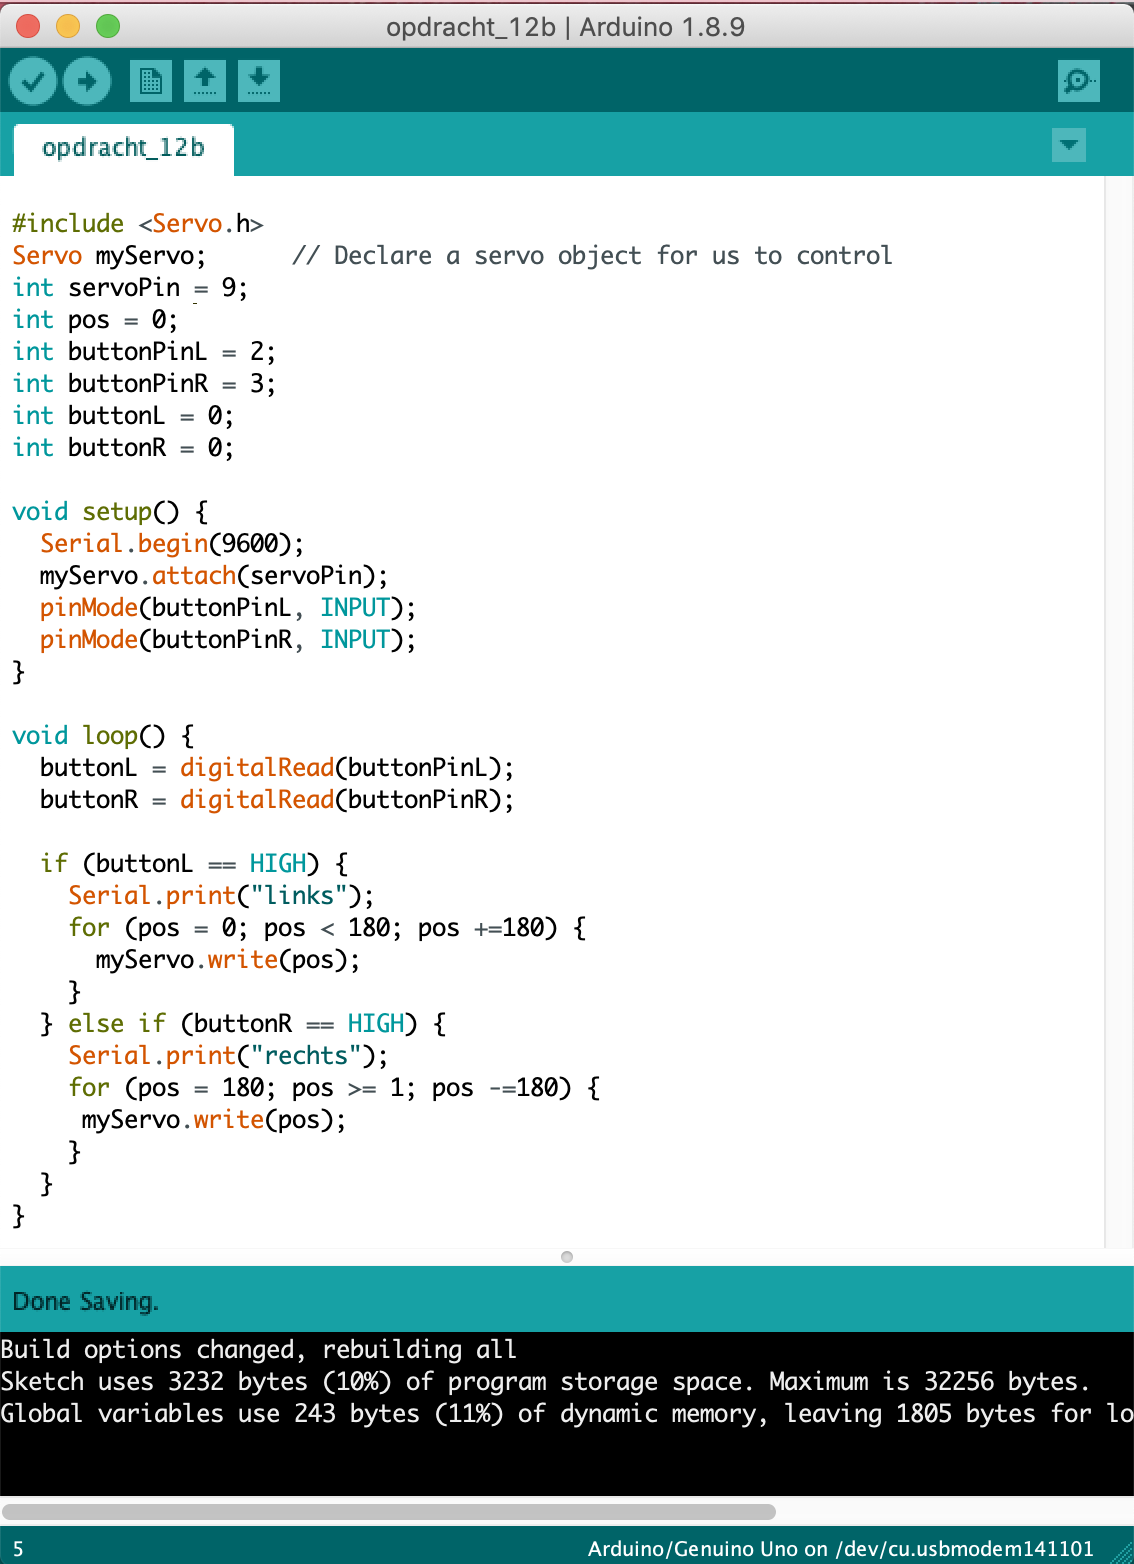
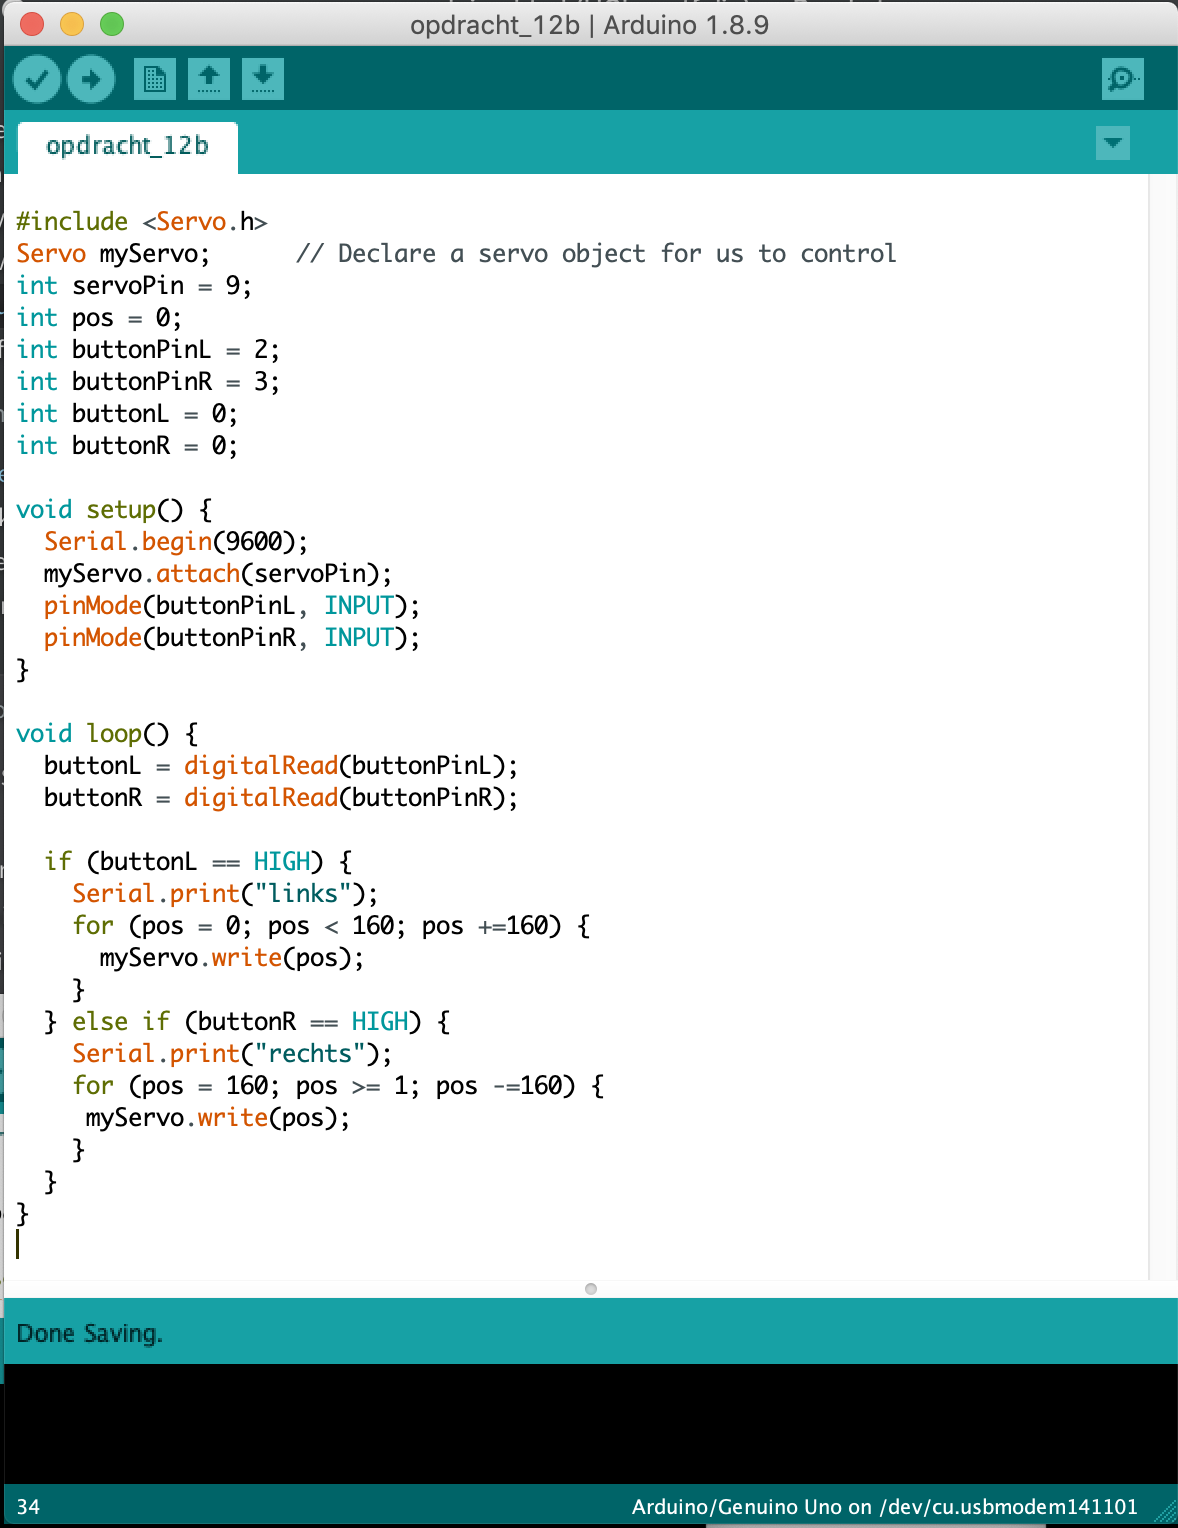
update

diff --git a/arduino.html b/arduino.html
@@ -56,8 +56,12 @@
                     <video muted controls loop preload autoplay>
                       <source src="img/arduino_3c.mp4" type="video/mp4">
                     </video>
+                    <p>De positie van de draadjes</p>
+                    <figure>
+                        <img src="img/arduino_3c_bb.png" alt="">
+                    </figure>
                     <p>
-                        Het was hier de opdracht om ervoor te zorgen dat het groene led lampje twee keer sneller knippert dan het gele led lampje. 
+                    Het was hier de opdracht om ervoor te zorgen dat het groene led lampje twee keer sneller knippert dan het gele led lampje. Ik moest de verbinddraadjes in de juiste pins (rondjes) plaatsen zodat de lampjes aan konden gaan. Met de code heb ik toen aangegeven dat het gele lampje eerst helemaal aan moest terwijl het groene lampje uit was. Na een vertraging moest het groene lampje uit en aan gaan waarna het gele lampje uit ging en het groene lampje weer aan en zo voorts. Deze code staat in een loop wat betekend dat het steeds opnieuw zal gaan.
                     </p>
                     <h2>Opdracht 4c</h2>
                     <figure>
@@ -66,7 +70,11 @@
                     <video muted controls loop preload autoplay>
                       <source src="img/arduino_4c.mp4" type="video/mp4">
                     </video>
-                    <p>
+                    <figure>
+                        <img src="img/arduino_4c_bb.png" alt="">
+                    </figure>
+                    <p>De opdracht was het controleren van de helderheid van de led lampjes. Niet alle pins zijn hiervoor geschikt. Het moeten pins zijn die geschikt zijn voor Pulse Width Modulation (PWM) op deze manier kan het led lampje gedimd worden. 
+                    De positie van de draadjes en de led lampjes zijn op het Arduino board en Breadboard niet veel veranderd, behalve dat de draadjes nu in een andere pin zitten. Het was de bedoeling dat een led lampje langzaam vervaagd terwijl de andere langzaam helderder wordt. In de code kan je in de loop zien dat het groene led lampje "bright" wordt, terwijl het gele led lampje minder "bright" wordt. Omdat dit in een loop zit, wordt het herhaald.
                     </p>
                     <h2>Opdracht 6c</h2>
                     <figure>
@@ -75,7 +83,11 @@
                     <video muted controls loop preload autoplay>
                       <source src="img/arduino_6c.mp4" type="video/mp4">
                     </video>
+                    <figure>
+                        <img src="img/arduino_6c_bb.png" alt="">
+                    </figure>
                     <p>
+                    Het was hier de opdracht dat een led lampje vervaagd terwijl het andere helderder wordt door middel van het draaien van de potentiometer. Een potentiometer kan gedraaid worden en hier kan code aan gehangen worden zodat het draaien van de potentiometer iets veranderd. In dit geval veranderd het draaien aan de potentiometer dat het ene led lampje vervaagd en dat het andere helderder wordt.
                     </p>
                     <h2>Opdracht 7</h2>
                     <figure>
@@ -84,7 +96,11 @@
                     <video muted controls loop preload autoplay>
                       <source src="img/arduino_7.mp4" type="video/mp4">
                     </video>
+                    <figure>
+                        <img src="img/arduino_7_bb.png" alt="">
+                    </figure>
                     <p>
+                    In de vorige opdracht heb ik ervoor gezorgd dat de de led lampjes door de potentiometer werden gecontroleerd. In deze opdracht is het de bedoeling dat de led lampjes door een andere sensor worden gecontroleerd. Nu moeten de led lampjes door een LDR (light dependent resistor). Deze sensor meet de hoeveelheid licht, het is een soortgelijke sensor als de sensor die gebruikt wordt om lantaarnpalen aan te laten gaan.
                     </p>
                     <h2>Opdracht 8</h2>
                     <figure>
@@ -94,7 +110,10 @@
                     <video controls preload>
                       <source src="img/arduino_8.mp4" type="video/mp4">
                     </video>
-                    <p>
+                    <figure>
+                        <img src="img/arduino_8_bb.png" alt="">
+                    </figure>
+                    <p>Bij deze opdracht was het de bedoeling om uit te leggen hoe de formule van de voltage divider in de praktijk werkt. Een voltage divider is een opstelling van het Arduino Board (een circuit) dat een lage spanning veranderd in een lagere spanning door gebruik van twee resistoren en een input kan er dan een output gecreeërd worden dat een fractie van de input is. De eerste vraag van de opdracht was wat er zou gebeuren als beide voltage dividers LDR's waren. Het antwoord daarop is dat de ene ldr er voor zorgd dat de waarden lager worden als er minder licht binnenkomt. Bij de andere ldr wordt de spanning hoger als er minder licht binnenkomt. Als beiden bedekt worden en dus geen licht opvangen, word de spanning gemiddeld en als ze beiden licht ontvangen ook. 
                     </p>
                     <h2>Opdracht 9b</h2>
                     <video muted controls loop preload autoplay>
@@ -103,6 +122,7 @@
                     <video muted controls loop preload autoplay>
                       <source src="img/arduino_9b_.mp4" type="video/mp4">
                     </video>
+                    <p>Voor deze opdracht heb ik hetzelfde circuit als opdracht 6 gebruikt. Het was de bedoeling dat Arduino en Processing samen zouden werken zodat er een input device ontstaat dat invloed uitoefend op het virtuele programma van Processing. Ik heb een driehoek gemaakt dat verticaal flipt als een gebruiker aan de potentiometer draait.</p>
                     <p>
                     </p>
                     <h2>Opdracht 10f</h2>
@@ -112,7 +132,10 @@
                     <video muted controls loop preload autoplay>
                       <source src="img/arduino_10f.mp4" type="video/mp4">
                     </video>
-                    <p>
+                    <figure>
+                        <img src="img/arduino_10f_bb.png" alt="">
+                    </figure>
+                    <p>Bij deze opdracht moest ik twee knoppen (buttons) toevoegen zodat het led lampje aangaat als er een van de twee knoppen wordt ingedrukt. Als beide knoppen worden ingedrukt, moet het led lampje niet aan gaan. Hiervoor heb ik een if else function gecreeërd. Deze functie geeft letterlijk aan als (voorwaarde) dan gebeurd er (dit). Dus als de knop links of de knop rechts wordt ingedrukt dan moet het lampje aan, maar als de knoppen samen worden ingedrukt dan moet het lampje niet aan.
                     </p>
                     <h2>Opdracht 11b</h2>
                     <figure>
@@ -121,16 +144,23 @@
                     <video muted controls loop preload autoplay>
                       <source src="img/arduino_11b.mp4" type="video/mp4">
                     </video>
-                    <p>
+                    <figure>
+                        <img src="img/arduino_11b_bb.png" alt="">
+                    </figure>
+                    <p>Servomoters (servo) zijn motoren die op een precieze positie gedraaid kunnen worden. Het was de bedoeling om de code zo aan te passen dat de servo op een interessante en ritmische manier zal bewegen. Pos is de positie van de servo. Ik heb positie van de servo aangepast en waarden tussen 0 en 150 ingevuld.
                     </p>
                     <h2>Opdracht 12b</h2>
                     <figure>
                         <img src="img/arduino_12b.png" alt="">
                     </figure>
+                    <figure>
+                        <img src="img/arduino_12b_bb.png" alt="">
+                    </figure>
                     <video muted controls loop preload autoplay>
                       <source src="img/arduino_12b.mp4" type="video/mp4">
                     </video>
                     <p>
+                    Bij deze opdracht was het de bedoeling om twee knoppen toe te voegen. Deze knoppen moeten de servo controleren. De ene knop moet ervoor zorgen dat de servo met de klok mee beweegt en de andere moet ervoor zorgen dat de servo tegen de klok in beweegt. Serial.print("links) geeft aan wat de linkerknop doet en Serial.print("rechts") geeft aan wat de rechterknop doet. Zoals eerder vermeeld laat "pos" zien wat de positie van de servo is.   
                     </p>
                     <h2>Opdracht 13b</h2>
                     <video muted controls loop preload autoplay>
@@ -140,7 +170,15 @@
                     <video controls preload>
                       <source src="img/arduino_13b_sound.mp4" type="video/mp4">
                     </video>
+                    <figure>
+                        <img src="img/arduino_13b_bb.png" alt="">
+                    </figure>
+                    <figure>
+                        <img src="img/arduino_13b_sounddiagram.png" alt="">
+                        <figcaption>Geluidsdiagram</figcaption>
+                    </figure>
                     <p>
+                    In deze opdracht moest ik een creatieve melodie creeëren met behulp van frequenties. Deze frequenties stonden in het geluidsdiagram. Ik heb de melodie van Twinkle Twinkle Little Star opgezocht en de juiste frequenties in het geluidsdiagram opgezocht. Daarna heb ik per regel de juiste frequentie erbij gezet met daarachter hoelang de noot wordt afgespeeld. Tussen de noten van een zin zit een vertraging van 400ms en tussen twee zinnen zit een vertraging van 800 ms om aan te geven dat het een nieuwe zin is. Ook omdat er normaal in het afspelen van liedjes breaks zitten tussen verschillende onderdelen van het nummer.
                     </p>
                 </article>
             </div>
